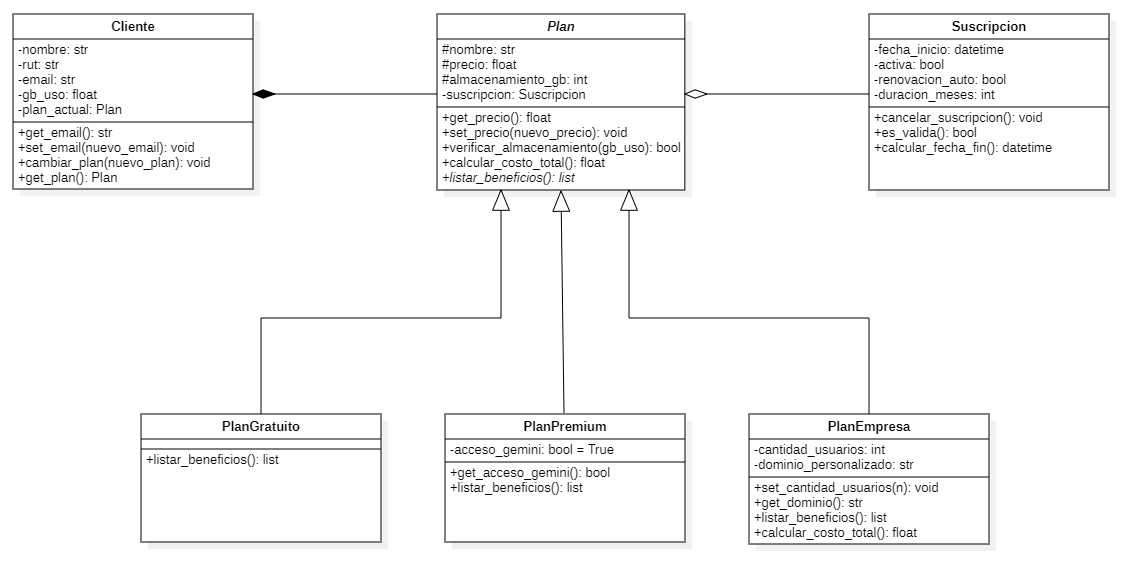
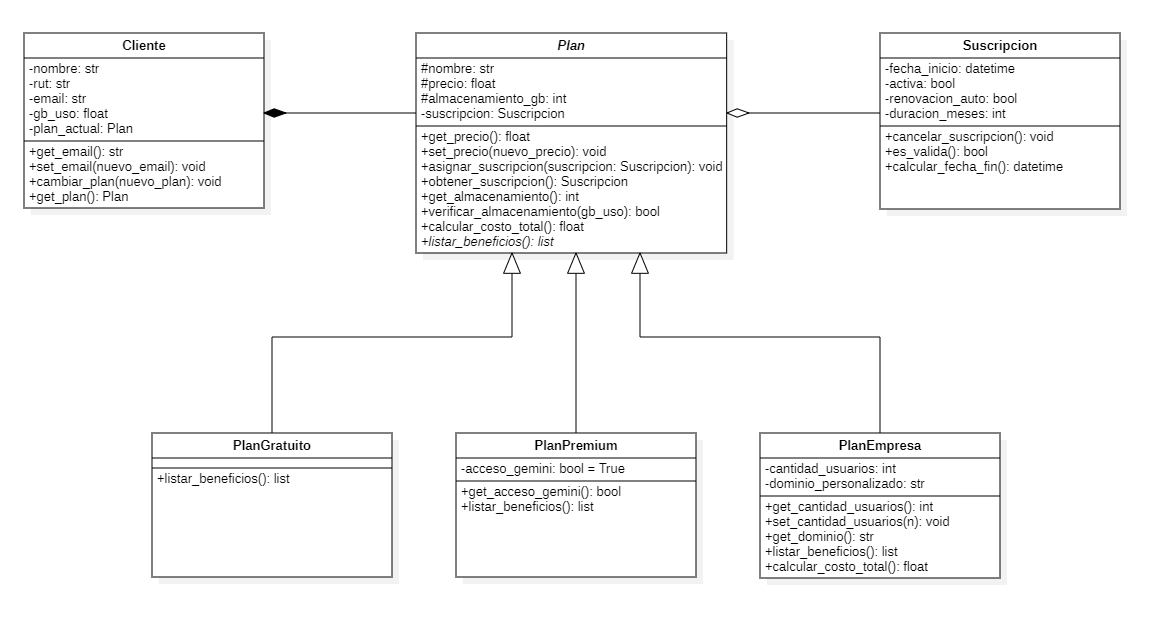
Implementación de super clase Plan y subclases, actualización UML

Changed region(s): [[0.0, 0.0, 0.9885, 0.9663], [0.3707, 0.6643, 0.6178, 0.9663]]

diff --git a/modelos/plan.py b/modelos/plan.py
@@ -1,0 +1,98 @@
+class Plan:
+    def __init__(self, nombre, precio, almacenamiento_gb):
+        self._nombre = nombre
+        self._precio = precio
+        self._almacenamiento_gb = almacenamiento_gb
+        self.__suscripcion = None
+
+    # --- GETTERS Y SETTERS ---
+
+    def get_precio(self):
+        return self._precio
+    
+    def set_precio(self, nuevo_precio):
+        if nuevo_precio < 0:
+            print("Error: El precio no puede ser negativo")
+        else:
+            self._precio = nuevo_precio
+
+    def get_nombre(self):
+        return self._nombre
+    
+    def get_almacenamiento(self):
+        return self._almacenamiento_gb
+    
+    # --- MÉTODOS DE RELACIÓN ---
+    
+    def asignar_suscripcion(self, suscripcion):
+        self.__suscripcion = suscripcion
+
+    def obtener_suscripcion(self):
+        return self.__suscripcion
+    
+    # --- MÉTODOS DE LÓGICA ---
+
+    def verificar_almacenamiento(self, gb_uso):
+        return gb_uso <= self._almacenamiento_gb
+    
+    def calcular_costo_total(self):
+        return self._precio
+    
+    def listar_beneficios(self):
+        raise NotImplementedError("Este error debe ser implementado por las clases hijas")
+
+class PlanGratuito(Plan):
+    def __init__(self):
+        super().__init__("Google Free", 0.0, 15)
+
+    def listar_beneficios(self):
+        return ["Google Free", "15GB Drive", "Google Photos"]
+    
+class PlanPremium(Plan):
+    def __init__(self):
+        super().__init__("Google One AI Premium", 19.99, 2048)
+        self.__acceso_gemini = True
+
+    def get_acceso_gemini(self):
+        return self.__acceso_gemini
+    
+    def listar_beneficios(self):
+        return [
+            "2TB Almacenamiento",
+            "Gemini Advanced",
+            "Magic Eraser"
+        ]
+    
+class PlanEmpresa(Plan):
+    def __init__(self, cantidad_usuarios, dominio_personalizado):
+        super().__init__("Google Enterprise", 10.0, 100000)
+        self.__cantidad_usuarios = cantidad_usuarios
+        self.__dominio_personalizado = dominio_personalizado
+
+    # --- GETTERS Y SETTERS ESPECIFICOS EMPRESA ---
+    def get_cantidad_usuarios(self):
+        return self.__cantidad_usuarios
+    
+    def set_cantidad_usuarios(self, n):
+        if n < 3:
+            print("Error: Deber haber al menos 3 usuarios")
+        else:
+            self.__cantidad_usuarios = n
+
+    def get_dominio(self):
+        return self.__dominio_personalizado
+    
+    # --- Polimorfismo ---
+    def calcular_costo_total(self):
+        return self._precio * self.__cantidad_usuarios
+    
+    def listar_beneficios(self):
+        return [
+            f"Espacio compartido para {self.__cantidad_usuarios} usuarios",
+            f"Dominio @{self.__dominio_personalizado}",
+            "Soporte 24/7"
+        ]
+    
+    
+
+    
